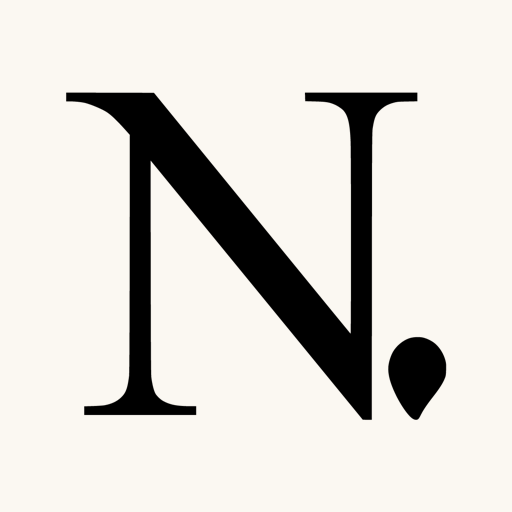
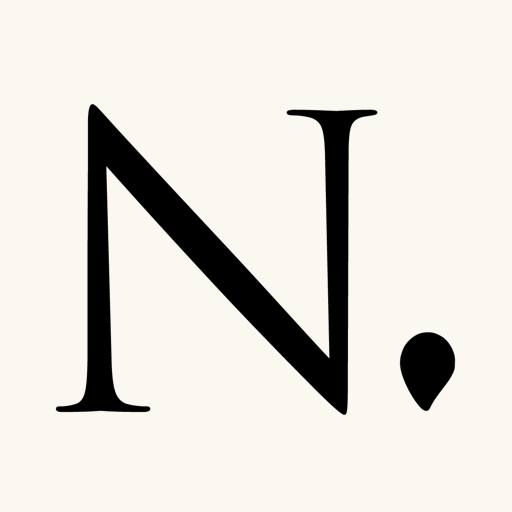
Monograma refeito com o N da Trajan Pro 3
Mesma fonte do wordmark; gota do desenho original mantida.

Changed region(s): [[0.0938, 0.1562, 0.9062, 0.8438]]

diff --git a/src/components/Logo.tsx b/src/components/Logo.tsx
@@ -1,6 +1,6 @@
 import Image from "next/image";
 
-// Monograma "N." com gota, desenho do Bruno (set/2026). Vetor e original em Desktop/Nikolas/Logotipo.
+// Monograma "N." com gota: N em Trajan Pro 3 (fonte do logotipo) + gota desenhada pelo Bruno (set/2026). Vetor em Desktop/Nikolas/Logotipo.
 // "escuro" = N preto para fundos claros; "claro" = N branco para fundos escuros.
 export default function Logo({
   className = "h-10 w-10",
